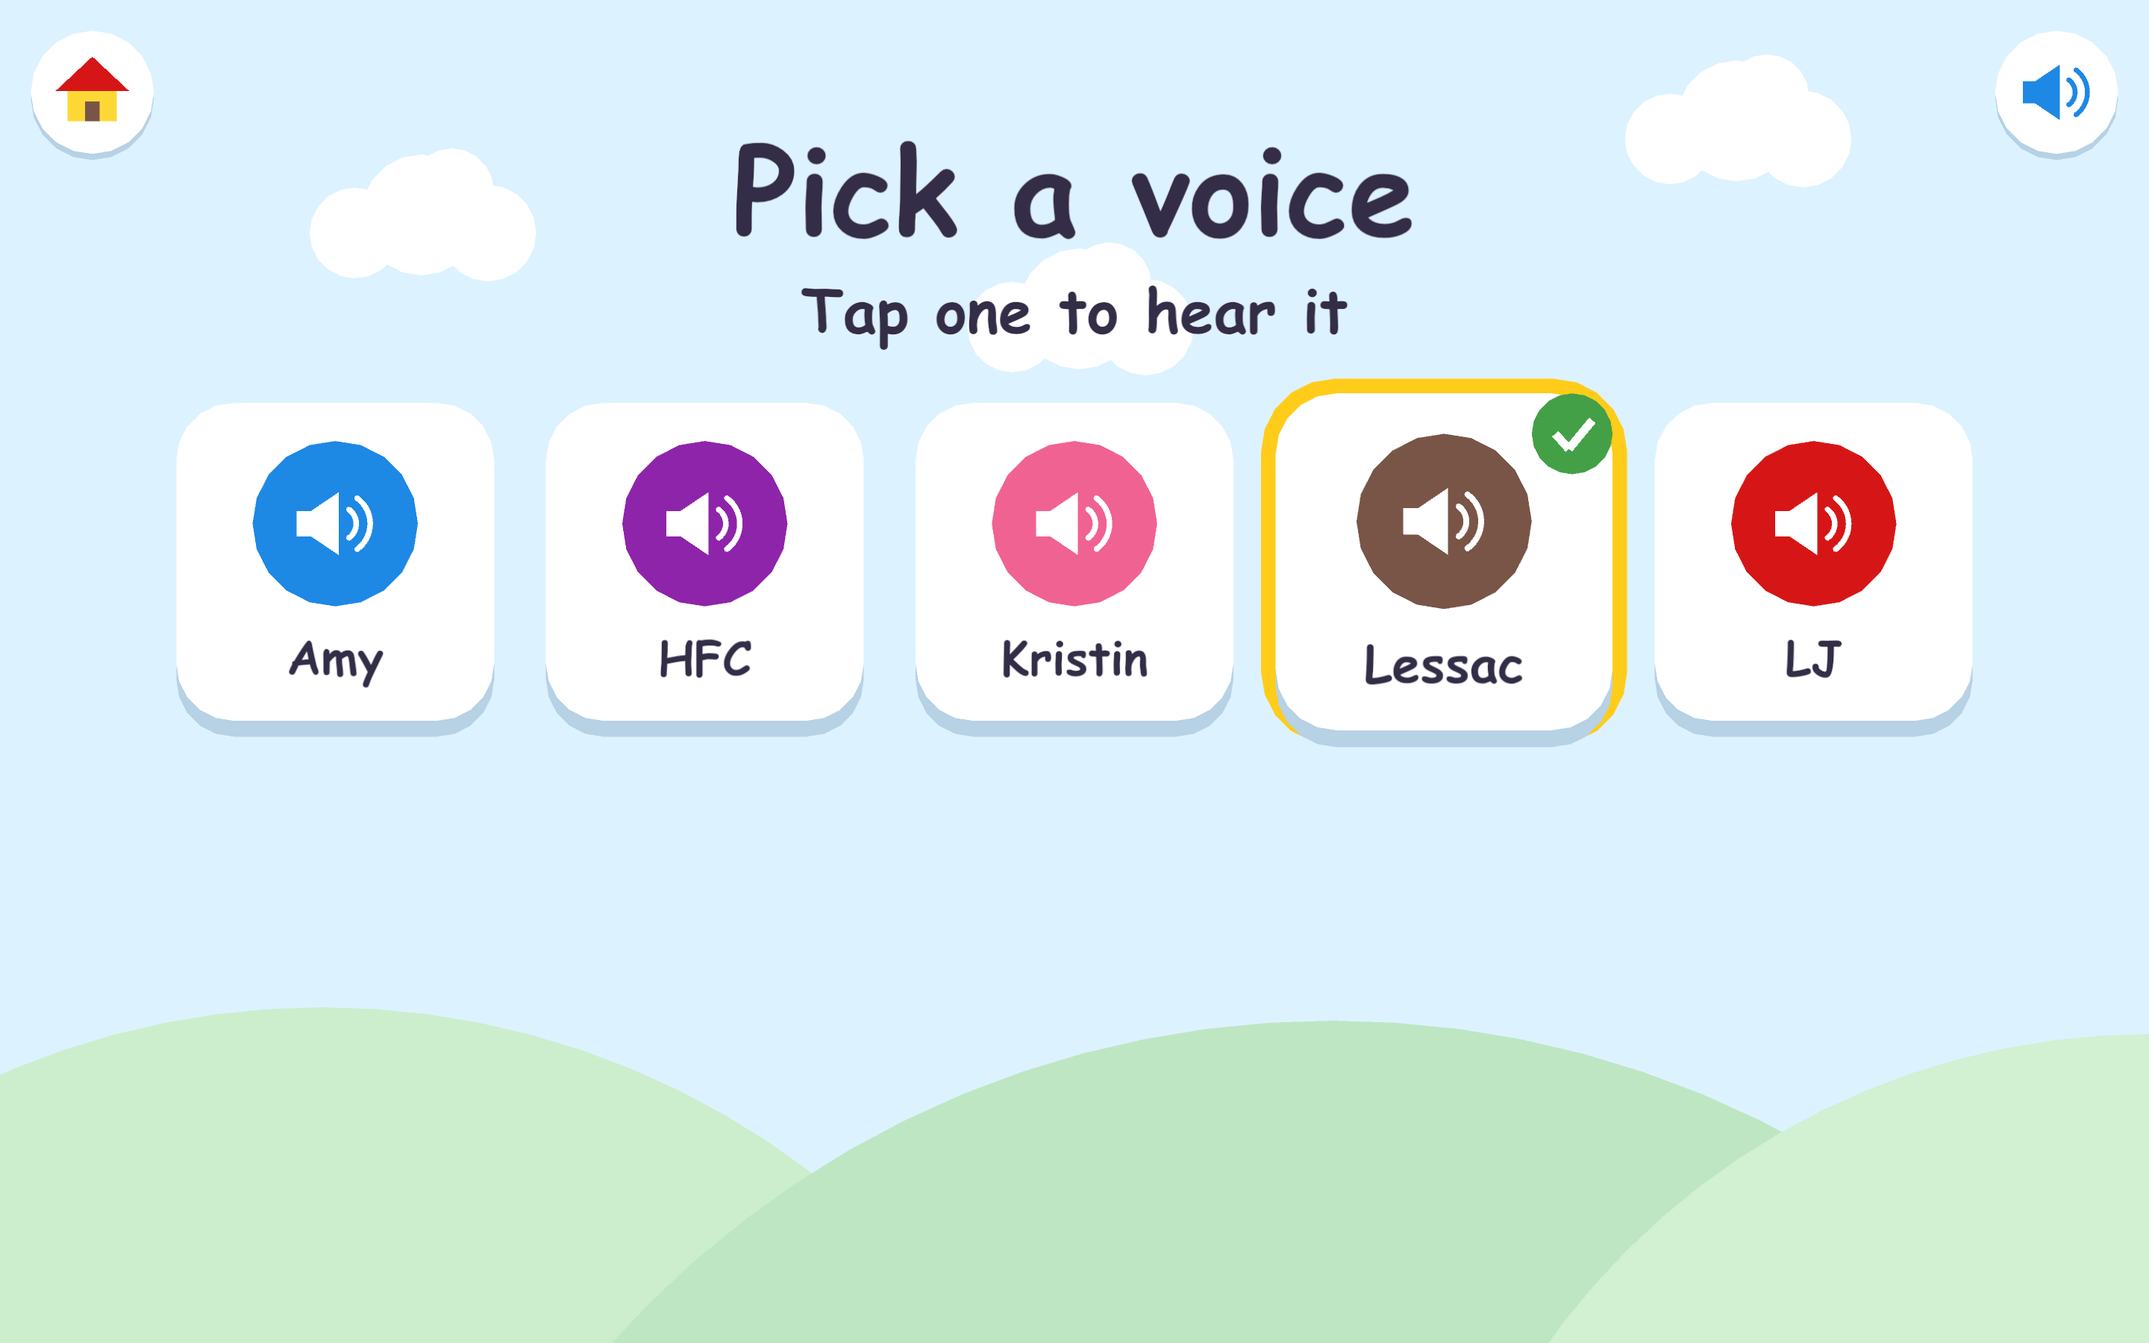
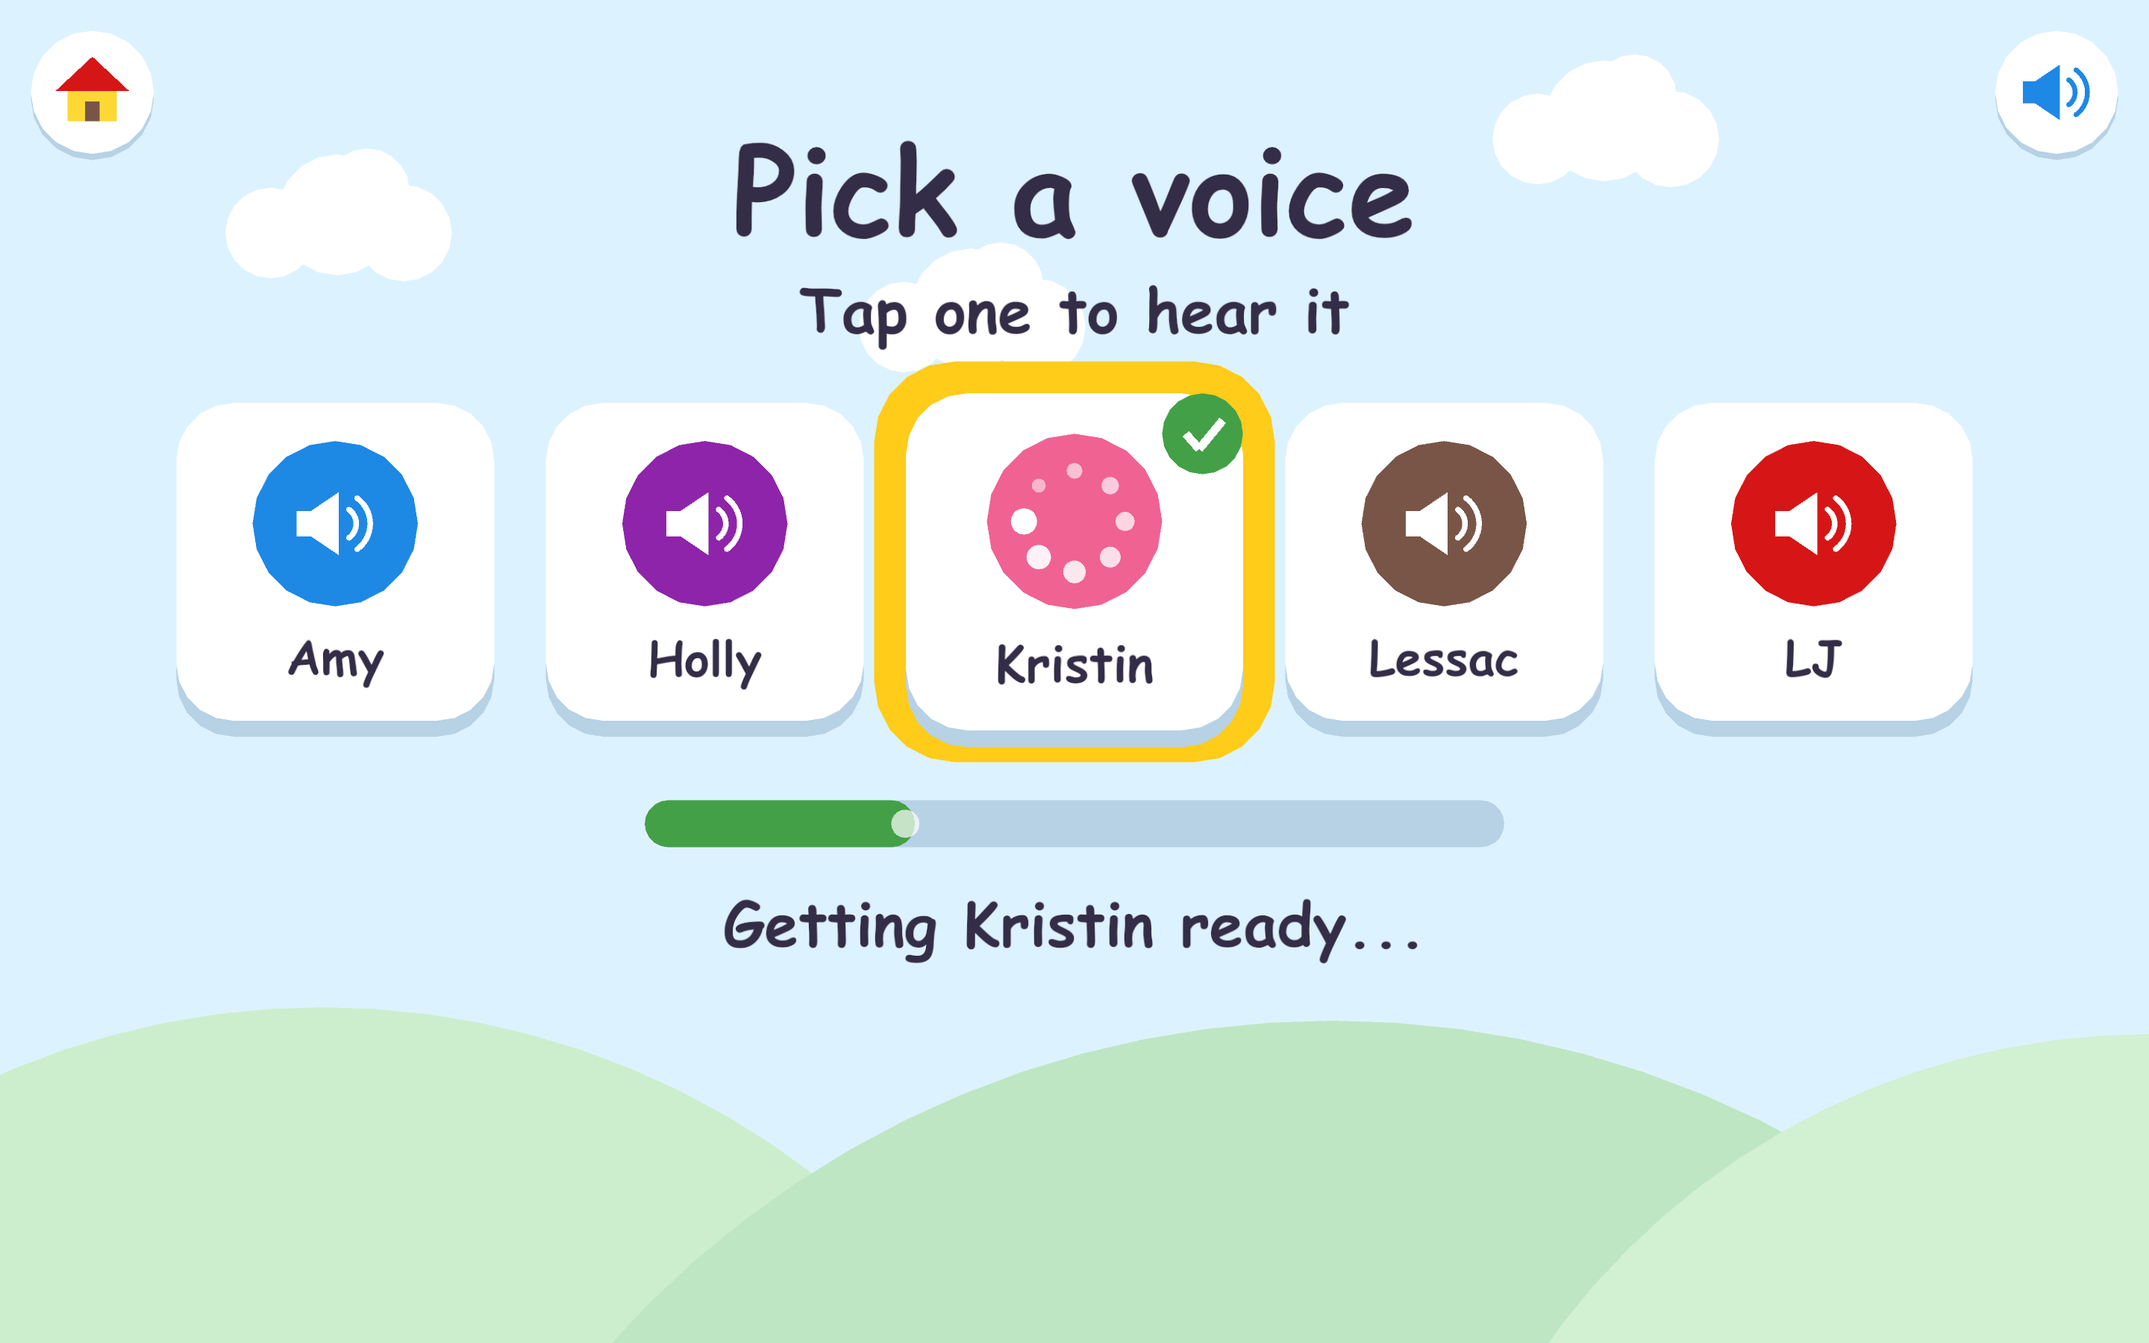
Voice menu: loading bar, faster switching, Holly
- Picking a voice shows spinning dots on its card and a loading bar
  ("Getting Kristin ready...") until it starts talking.
- Switching voices said hello only after making ~40 common phrases first
  (up to 20 s). The hello now goes first: about a second.
- HFC is now called Holly.
- Text sizes are 20% apart and only ever shrink, so there are about half
  as many sizes to draw; screens no longer freeze the first time they
  open (up to 1.8 s before).
- --voices holly picks a voice from the command line.

diff --git a/src/voicepick.rs b/src/voicepick.rs
@@ -16,7 +16,12 @@ pub enum VoicePick {
 #[derive(Default)]
 pub struct VoicePicker {
     voices: Vec<String>,
+    /// When a voice was tapped, while we wait for it to be ready to talk.
+    loading_since: Option<f32>,
 }
+
+/// Don't flash the loading bar for clips that are ready almost at once.
+const SHOW_LOADING_AFTER: f32 = 0.3;
 
 fn cards(n: usize) -> Vec<Rect> {
     let (w, h) = (screen_width(), screen_height());
@@ -45,7 +50,21 @@ impl VoicePicker {
         }
     }
 
+    /// A voice was just picked: show the loading bar until it starts talking.
+    pub fn chose(&mut self, time: f32) {
+        self.loading_since = Some(time);
+    }
+
+    /// Seconds we've been waiting for the voice, once that's long enough to show.
+    fn loading(&self, ctx: &Ctx) -> Option<f32> {
+        let waited = ctx.time - self.loading_since?;
+        (ctx.voice.waiting() && waited >= SHOW_LOADING_AFTER).then_some(waited)
+    }
+
     pub fn update(&mut self, ctx: &mut Ctx) -> VoicePick {
+        if self.loading_since.is_some() && !ctx.voice.waiting() {
+            self.loading_since = None; // it's talking
+        }
         if ctx.input.tapped(hud::home_rect()) {
             ctx.sfx.pop();
             return VoicePick::Back;
@@ -53,6 +72,7 @@ impl VoicePicker {
         match cards(self.voices.len()).iter().position(|r| ctx.input.tapped(*r)) {
             Some(i) => {
                 ctx.sfx.pop();
+                self.chose(ctx.time);
                 VoicePick::Choose(self.voices[i].clone())
             }
             None => VoicePick::Nothing,
@@ -66,6 +86,7 @@ impl VoicePicker {
         art::text_center(font, "Tap one to hear it", vec2(w / 2.0, h * 0.23), h * 0.045, art::INK);
 
         let current = ctx.voice.model();
+        let loading = self.loading(ctx);
         for (i, (r, model)) in cards(self.voices.len()).iter().zip(&self.voices).enumerate() {
             let chosen = current == Some(model.as_str());
             let mut r = *r;
@@ -77,7 +98,10 @@ impl VoicePicker {
             let color = Paint::ALL[(i + 4) % Paint::ALL.len()].color();
             let c = vec2(r.center().x, r.y + r.h * 0.38);
             draw_circle(c.x, c.y, r.w * 0.26, color);
-            art::speaker_icon(c, r.w * 0.22, WHITE);
+            match loading.filter(|_| chosen) {
+                Some(_) => spinner(c, r.w * 0.15, ctx.time),
+                None => art::speaker_icon(c, r.w * 0.22, WHITE),
+            }
             art::text_center(font, &voice::display_name(model), vec2(r.center().x, r.y + r.h * 0.8), r.h * 0.15, art::INK);
             if chosen {
                 let b = vec2(r.x + r.w * 0.88, r.y + r.w * 0.12);
@@ -87,6 +111,33 @@ impl VoicePicker {
                 draw_line(b.x - r.w * 0.01, b.y + r.w * 0.045, b.x + r.w * 0.06, b.y - r.w * 0.04, t, WHITE);
             }
         }
+        // The loading bar under the voice that's getting ready.
+        if let (Some(waited), Some(i)) = (loading, self.voices.iter().position(|m| current == Some(m.as_str()))) {
+            let card = cards(self.voices.len())[i];
+            let bar = Rect::new(w * 0.3, card.y + card.h * 1.25, w * 0.4, h * 0.035);
+            // We can't know how long Piper will take, so the bar fills quickly at first and then
+            // slows down (it never quite reaches the end, and vanishes when the voice talks).
+            let fill = 0.95 * (1.0 - (-waited / 3.0).exp());
+            art::rounded_rect(bar, bar.h / 2.0, art::SHADOW);
+            let done = Rect::new(bar.x, bar.y, (bar.w * fill).max(bar.h), bar.h);
+            art::rounded_rect(done, bar.h / 2.0, Paint::Green.color());
+            // A shine sliding along the filled part, so it always looks busy.
+            let shine = done.x + ((ctx.time * 0.8) % 1.0) * done.w;
+            draw_circle(shine, done.center().y, bar.h * 0.3, Color::new(1.0, 1.0, 1.0, 0.6));
+            let name = voice::display_name(&self.voices[i]);
+            let words = format!("Getting {name} ready...");
+            art::text_center(font, &words, vec2(w / 2.0, bar.y + bar.h * 2.6), h * 0.045, art::INK);
+        }
         hud::draw_home_button(ctx);
+    }
+}
+
+/// Eight dots going round, getting bigger toward the "front" one.
+fn spinner(c: Vec2, radius: f32, time: f32) {
+    for k in 0..8 {
+        let angle = k as f32 / 8.0 * std::f32::consts::TAU;
+        let behind = ((time * 1.5 - k as f32 / 8.0).rem_euclid(1.0) * 8.0).floor() / 8.0;
+        let p = c + vec2(angle.sin(), -angle.cos()) * radius;
+        draw_circle(p.x, p.y, radius * (0.12 + 0.14 * (1.0 - behind)), Color::new(1.0, 1.0, 1.0, 1.0 - behind * 0.7));
     }
 }

diff --git a/src/main.rs b/src/main.rs
@@ -216,6 +216,23 @@ impl App {
         self.screen = Screen::Menu;
     }
 
+    /// Switch to this voice (and save the choice), and let it say hello.
+    fn choose_voice(&mut self, model: &str, ctx: &mut Ctx) {
+        let name = voice::display_name(model);
+        let hello = format!("Hi! I'm {name}. Let's play!");
+        if ctx.voice.model() == Some(model) {
+            ctx.voice.say(&hello);
+            return;
+        }
+        ctx.voice = voice::Voice::new(Some(model));
+        ctx.voice.set_muted(ctx.muted);
+        // Say hello first, so it isn't stuck behind all the phrases being made ahead of time.
+        ctx.voice.say(&hello);
+        ctx.voice.prepare(&common_phrases());
+        self.players.voice = Some(model.to_string());
+        self.players.save();
+    }
+
     fn picking_player(&self) -> bool {
         matches!(
             self.screen,
@@ -258,17 +275,7 @@ impl App {
                 who::Pick::Nothing => {}
             },
             Screen::Voices => match self.voice_picker.update(ctx) {
-                voicepick::VoicePick::Choose(model) => {
-                    if ctx.voice.model() != Some(model.as_str()) {
-                        ctx.voice = voice::Voice::new(Some(&model));
-                        ctx.voice.set_muted(ctx.muted);
-                        ctx.voice.prepare(&common_phrases());
-                        self.players.voice = Some(model.clone());
-                        self.players.save();
-                    }
-                    let name = voice::display_name(&model);
-                    ctx.voice.say(&format!("Hi! I'm {name}. Let's play!"));
-                }
+                voicepick::VoicePick::Choose(model) => self.choose_voice(&model, ctx),
                 voicepick::VoicePick::Back => self.show_players(ctx),
                 voicepick::VoicePick::Nothing => {}
             },
@@ -567,10 +574,16 @@ async fn main() {
     if std::env::args().any(|a| a == "--edit-players") {
         app.picker.start_editing();
     }
-    // `--voices` opens the voice menu.
+    // `--voices` opens the voice menu; `--voices amy` also picks Amy (as if tapped).
     if std::env::args().any(|a| a == "--voices") {
         app.voice_picker.start(&mut ctx);
         app.screen = Screen::Voices;
+        let wanted = arg_value("--voices").map(|s| s.to_lowercase());
+        let found = voice::installed().into_iter().find(|m| Some(voice::display_name(m).to_lowercase()) == wanted);
+        if let Some(model) = found {
+            app.voice_picker.chose(ctx.time);
+            app.choose_voice(&model, &mut ctx);
+        }
     }
 
     // `--stars 7` starts with 7 stars; `--show-stars` opens the star panel right away.

diff --git a/src/voice/piper.rs b/src/voice/piper.rs
@@ -154,6 +154,14 @@ impl PiperVoice {
             self.queue.clear();
         }
         self.queue.extend(parse(text).into_iter().map(job_for));
+        // Ask for it right away, so it gets made before anything that was only `prepare`d.
+        self.request_upcoming();
+    }
+
+    /// Is the voice waiting for a clip to be made before it can say the next thing?
+    pub fn waiting(&self) -> bool {
+        get_time() >= self.playing_until
+            && self.queue.front().is_some_and(|j| !self.loaded.contains_key(&j.name) && !self.broken.contains(&j.name))
     }
 
     pub fn set_muted(&mut self, muted: bool) {
@@ -192,16 +200,7 @@ impl PiperVoice {
             }
         }
 
-        // Make sure the next few clips are on their way.
-        let upcoming: Vec<Job> = self
-            .queue
-            .iter()
-            .take(4)
-            .map(|j| Job { name: j.name.clone(), text: j.text.clone(), phonetic: j.phonetic })
-            .collect();
-        for job in upcoming {
-            self.request(job);
-        }
+        self.request_upcoming();
 
         // When the current clip ends, play the next one (if it's ready).
         if get_time() >= self.playing_until {
@@ -221,6 +220,19 @@ impl PiperVoice {
                 }
                 break;
             }
+        }
+    }
+
+    /// Make sure the next few clips in the queue are on their way.
+    fn request_upcoming(&mut self) {
+        let upcoming: Vec<Job> = self
+            .queue
+            .iter()
+            .take(4)
+            .map(|j| Job { name: j.name.clone(), text: j.text.clone(), phonetic: j.phonetic })
+            .collect();
+        for job in upcoming {
+            self.request(job);
         }
     }
 

diff --git a/src/art.rs b/src/art.rs
@@ -412,14 +412,16 @@ pub fn load_font() -> Option<Font> {
         .find_map(|bytes| load_ttf_font_from_bytes(&bytes).ok())
 }
 
-/// The font has to draw every letter again for each new text size, which is slow (a
-/// tenth of a second for a big title). Text that grows or pulses would do that every
-/// frame. So text is only ever drawn at a few sizes, 10% apart, and stretched a little
-/// to the exact size. Returns (size to draw at, how much to stretch it).
+/// The font has to draw every letter again for each new text size, which is slow, and keeps
+/// every one in a texture that grows (and gets copied) as it fills up. Text that grows or
+/// pulses would add new sizes every frame, and each screen's own sizes cause a stutter the
+/// first time it's shown. So text is only ever drawn at a few sizes, 20% apart, rounding up
+/// and shrinking to the exact size (shrinking keeps it sharp). Returns (size to draw at,
+/// how much to shrink it).
 fn font_size(size: f32) -> (u16, f32) {
+    const STEP: f32 = 1.2;
     let size = size.max(1.0);
-    let step = (size.ln() / 1.1f32.ln()).round();
-    let fs = 1.1f32.powf(step).round().max(1.0);
+    let fs = STEP.powf((size.ln() / STEP.ln()).ceil()).round().max(1.0);
     (fs as u16, size / fs)
 }
 

diff --git a/src/voice/mod.rs b/src/voice/mod.rs
@@ -74,12 +74,13 @@ pub fn installed() -> Vec<String> {
     piper::installed()
 }
 
-/// A friendly name for a voice: "en_US-amy-medium" -> "Amy", "en_US-hfc_female-medium" -> "HFC".
+/// A friendly name for a voice: "en_US-amy-medium" -> "Amy", "en_US-hfc_female-medium" -> "Holly".
+/// (Some voices are named after the recording they were made from, so they get a real name here.)
 pub fn display_name(model: &str) -> String {
     let name = model.split('-').nth(1).unwrap_or(model);
     match name {
         "ljspeech" => "LJ".to_string(),
-        "hfc_female" => "HFC".to_string(),
+        "hfc_female" => "Holly".to_string(),
         other => crate::alphabet::capitalize(other),
     }
 }
@@ -128,6 +129,15 @@ impl Voice {
         match self {
             Voice::Piper(p) => p.set_muted(muted),
             Voice::Sapi(s) => s.set_muted(muted),
+        }
+    }
+
+    /// Is the voice waiting for Piper to make something before it can speak? (The first time
+    /// a voice is used, Piper takes a few seconds to start.)
+    pub fn waiting(&self) -> bool {
+        match self {
+            Voice::Piper(p) => p.waiting(),
+            Voice::Sapi(_) => false,
         }
     }
 

diff --git a/README.md b/README.md
@@ -21,7 +21,7 @@ Everything is drawn with code and all sound effects are synthesized. The voice i
 ## Setup
 
 1. Install Rust: <https://rustup.rs> (on Windows you also need the Visual Studio C++ Build Tools).
-2. Download Piper and five voices (Lessac, Amy, Kristin, HFC and LJ; about 350 MB, kept out of git):
+2. Download Piper and five voices (Lessac, Amy, Kristin, Holly and LJ; about 350 MB, kept out of git):
 
    ```bash
    powershell -ExecutionPolicy Bypass -File scripts\get-voice.ps1
@@ -38,13 +38,13 @@ Everything is drawn with code and all sound effects are synthesized. The voice i
 
 | Game | What it teaches | Levels |
 |------|-----------------|--------|
-| **Colors** | Lots of objects in different colors: drag each one into the bucket with the same color. Tapping an object or bucket says its name. | 2 colors / 4 things → 6 colors / 8 things |
-| **Patterns** | Find the missing piece and drag it into the "?". Rows (red, blue, red, blue…), big/small and turning arrows, a necklace of beads, a checkerboard grid, and growing patterns (1, 2, 3, 4…). Tapping any card says its name. | AB colors → ABC → big/small & arrows → necklace → grid → growing |
-| **Shadows** | Drag each colorful picture onto its dark shadow. | 2 → 5 shadows |
-| **Puzzles** | Drag picture pieces onto the board; they snap into place. Early levels show a faint guide. | 2 → 12 pieces |
-| **Letters** | A picture clue ("ball") and the letter's sound: "Find the letter bee! Buh, buh, ball!" Drag the letter onto the picture; tapping a letter or the picture says its name and sound. | 5 → 26 letters |
+| **Colors** | Lots of objects in different colors: drag each one into the bucket with the same color. Tapping an object or bucket says its name. | 2 colors / 4 things â†’ 6 colors / 8 things |
+| **Patterns** | Find the missing piece and drag it into the "?". Rows (red, blue, red, blueâ€¦), big/small and turning arrows, a necklace of beads, a checkerboard grid, and growing patterns (1, 2, 3, 4â€¦). Tapping any card says its name. | AB colors â†’ ABC â†’ big/small & arrows â†’ necklace â†’ grid â†’ growing |
+| **Shadows** | Drag each colorful picture onto its dark shadow. | 2 â†’ 5 shadows |
+| **Puzzles** | Drag picture pieces onto the board; they snap into place. Early levels show a faint guide. | 2 â†’ 12 pieces |
+| **Letters** | A picture clue ("ball") and the letter's sound: "Find the letter bee! Buh, buh, ball!" Drag the letter onto the picture; tapping a letter or the picture says its name and sound. | 5 â†’ 26 letters |
 | **Spelling** | A picture and its word ("Let's spell cat! C, A, T"); type it on the big keyboard. Each letter is said as it's typed; a wrong spelling is read back, then try again. "Say it" reads out whatever's typed. | 3, 4, 5, longer letters; with or without guide letters |
-| **Counting** | Tap each object to count it, then pick how many. Includes zero ("zero means none!"). | 0–3, 0–5, 4–7, 5–10, 7–10, 10–15, 11–20 |
+| **Counting** | Tap each object to count it, then pick how many. Includes zero ("zero means none!"). | 0â€“3, 0â€“5, 4â€“7, 5â€“10, 7â€“10, 10â€“15, 11â€“20 |
 | **Groups** | Early multiplication: tap each plate to count by 2s, 3s, 5s or 10s ("two, four, six"), then pick how many altogether. | 2s, 2s+, 5s, 10s, 3s, mixed |
 | **Drawing** | Paint with your finger: 10 colors, small/medium/big/rainbow brushes, eraser. Pick a blank page or a shape or picture outline to color in. | (no levels or stars) |
 
@@ -85,7 +85,7 @@ To remove a player, tap **Edit** (bottom-right of "Who's playing?"), then the re
 
 ## Grown-up controls
 
-- `Esc` quits. `↑` / `↓` change the level of the current game.
+- `Esc` quits. `â†‘` / `â†“` change the level of the current game.
 - `cargo run -- --windowed` runs in a window instead of fullscreen.
 
 ## Customizing
@@ -104,7 +104,7 @@ To remove a player, tap **Edit** (bottom-right of "Who's playing?"), then the re
 - `--levels 0` opens game 0's level picker.
 - `--versus 0:1:10` starts a match between players 0 and 1 (first to 10); `--demo-win` shows
   the winner screen; `--banner` shows the "level done" banner.
-- `--voices` opens the voice menu.
+- `--voices` opens the voice menu; `--voices holly` also picks Holly.
 - `--pick 0` picks player 0; `--edit-players` opens the remove-a-player mode.
 - `--things` shows every object and shape; `--solve` fills in the puzzle; `--page 8` opens a coloring page.
 - `--start 3:5` jumps straight into game 3 (Counting) at level 5. Games count from 0
